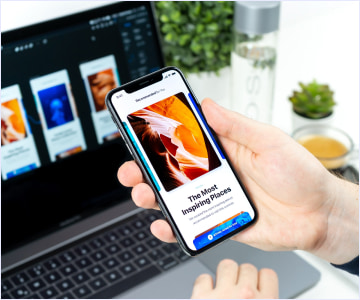
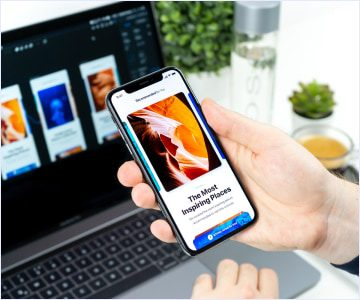
images @2x added

diff --git a/portfolio.html b/portfolio.html
@@ -96,7 +96,11 @@
               <a class="portfolio-link" href="#">
                 <div class="portfolio-box">
                   <img
-                    src="./images/portfolio/banking_app.jpeg"
+                    srcset="
+                      ./images/portfolio/img-1@1x.jpg 1x,
+                      ./images/portfolio/img-1@2x.jpg 2x
+                    "
+                    src="./images/portfolio/img-1@1x.jpg"
                     alt="banking app"
                     width="360"
                     height="300"
@@ -119,7 +123,11 @@
               <a class="portfolio-link" href="#">
                 <div class="portfolio-box">
                   <img
-                    src="./images/portfolio/cashless_payment.jpeg"
+                    srcset="
+                      ./images/portfolio/img-2@1x.jpg 1x,
+                      ./images/portfolio/img-2@2x.jpg 2x
+                    "
+                    src="./images/portfolio/img-2@1x.jpg"
                     alt="cashless payment"
                     width="360"
                     height="300"
@@ -140,7 +148,11 @@
               <a class="portfolio-link" href="#">
                 <div class="portfolio-box">
                   <img
-                    src="./images/portfolio/meditation_app.jpeg"
+                    srcset="
+                      ./images/portfolio/img-3@1x.jpg 1x,
+                      ./images/portfolio/img-3@2x.jpg 2x
+                    "
+                    src="./images/portfolio/img-3@1x.jpg"
                     alt="meditation app"
                     width="360"
                     height="300"
@@ -161,7 +173,11 @@
               <a class="portfolio-link" href="#">
                 <div class="portfolio-box">
                   <img
-                    src="./images/portfolio/taxi_service.jpeg"
+                    srcset="
+                      ./images/portfolio/img-4@1x.jpg 1x,
+                      ./images/portfolio/img-4@2x.jpg 2x
+                    "
+                    src="./images/portfolio/img-4@1x.jpg"
                     alt="Taxi Service"
                     width="360"
                     height="300"
@@ -182,7 +198,11 @@
               <a class="portfolio-link" href="#">
                 <div class="portfolio-box">
                   <img
-                    src="./images/portfolio/screen_illustrations.jpeg"
+                    srcset="
+                      ./images/portfolio/img-5@1x.jpg 1x,
+                      ./images/portfolio/img-5@2x.jpg 2x
+                    "
+                    src="./images/portfolio/img-5@1x.jpg"
                     alt="Screen Illustrations"
                     width="360"
                     height="300"
@@ -203,7 +223,11 @@
               <a class="portfolio-link" href="#">
                 <div class="portfolio-box">
                   <img
-                    src="./images/portfolio/online_courses.jpeg"
+                    srcset="
+                      ./images/portfolio/img-6@1x.jpg 1x,
+                      ./images/portfolio/img-6@2x.jpg 2x
+                    "
+                    src="./images/portfolio/img-6@1x.jpg"
                     alt="Online Courses"
                     width="360"
                     height="300"
@@ -224,7 +248,11 @@
               <a class="portfolio-link" href="#">
                 <div class="portfolio-box">
                   <img
-                    src="./images/portfolio/instagram_stories_concept.jpeg"
+                    srcset="
+                      ./images/portfolio/img-7@1x.jpg 1x,
+                      ./images/portfolio/img-7@2x.jpg 2x
+                    "
+                    src="./images/portfolio/img-7@1x.jpg"
                     alt="Instagram Stories Concept"
                     width="360"
                     height="300"
@@ -245,7 +273,11 @@
               <a class="portfolio-link" href="#">
                 <div class="portfolio-box">
                   <img
-                    src="./images/portfolio/organic_food.jpeg"
+                    srcset="
+                      ./images/portfolio/img-8@1x.jpg 1x,
+                      ./images/portfolio/img-8@2x.jpg 2x
+                    "
+                    src="./images/portfolio/img-8@1x.jpg"
                     alt="Organic Food"
                     width="360"
                     height="300"
@@ -266,7 +298,11 @@
               <a class="portfolio-link" href="#">
                 <div class="portfolio-box">
                   <img
-                    src="./images/portfolio/fresh_coffee.jpeg"
+                    srcset="
+                      ./images/portfolio/img-9@1x.jpg 1x,
+                      ./images/portfolio/img-9@2x.jpg 2x
+                    "
+                    src="./images/portfolio/img-9@1x.jpg"
                     alt="Fresh Coffee"
                     width="360"
                     height="300"

diff --git a/index.html b/index.html
@@ -146,6 +146,10 @@
           <ul class="examples-list card-set">
             <li class="card-set-item">
               <img
+                srcset="
+                  ./images/workExamples/img-1.jpg    1x,
+                  ./images/workExamples/img-1@2x.jpg 2x
+                "
                 src="./images/workExamples/img-1.jpg"
                 alt="Desktop applications"
                 width="360"
@@ -154,6 +158,10 @@
             </li>
             <li class="card-set-item">
               <img
+                srcset="
+                  ./images/workExamples/img-2.jpg    1x,
+                  ./images/workExamples/img-2@2x.jpg 2x
+                "
                 src="./images/workExamples/img-2.jpg"
                 alt="Mobile applications"
                 width="360"
@@ -162,6 +170,10 @@
             </li>
             <li class="card-set-item">
               <img
+                srcset="
+                  ./images/workExamples/img-3.jpg    1x,
+                  ./images/workExamples/img-3@2x.jpg 2x
+                "
                 src="./images/workExamples/img-3.jpg"
                 alt="Mobile applications"
                 width="360"
@@ -179,6 +191,10 @@
           <ul class="team-list card-set">
             <li class="team-item card-set-item">
               <img
+                srcset="
+                  ./images/team/img-1.jpg    1x,
+                  ./images/team/img-1@2x.jpg 2x
+                "
                 src="./images/team/img-1.jpg"
                 alt="Mark Guerrero Product Designer"
                 width="264"
@@ -245,6 +261,10 @@
             </li>
             <li class="team-item card-set-item">
               <img
+                srcset="
+                  ./images/team/img-2.jpg    1x,
+                  ./images/team/img-2@2x.jpg 2x
+                "
                 src="./images/team/img-2.jpg"
                 alt="Tom Ford Frontend Developer"
                 width="264"
@@ -311,6 +331,10 @@
             </li>
             <li class="team-item card-set-item">
               <img
+                srcset="
+                  ./images/team/img-3.jpg    1x,
+                  ./images/team/img-3@2x.jpg 2x
+                "
                 src="./images/team/img-3.jpg"
                 alt="Camila Garcia Marketing"
                 width="264"
@@ -377,6 +401,10 @@
             </li>
             <li class="team-item card-set-item">
               <img
+                srcset="
+                  ./images/team/img-4.jpg    1x,
+                  ./images/team/img-4@2x.jpg 2x
+                "
                 src="./images/team/img-4.jpg"
                 alt="Daniel Wilson UI Designer"
                 width="264"

diff --git a/css/styles.css b/css/styles.css
@@ -161,7 +161,6 @@ a {
   column-gap: var(--indent-col, 24px);
 }
 .card-set-item {
-  max-width: 264px;
   flex-basis: calc(
     (100% - var(--indent-col) * (var(--items) - 1)) / var(--items)
   );
@@ -312,14 +311,55 @@ a {
       rgba(46, 47, 66, 0.7),
       rgba(46, 47, 66, 0.7)
     ),
-    url(../images/portfolio/hero-bg.jpg);
+    url(../images/hero/hero-bg_mob@1x.jpg);
   background-repeat: no-repeat;
   background-position: center;
   background-size: cover;
 }
+@media (min-resolution: 192dpi) {
+  .hero {
+    background-image: linear-gradient(
+        rgba(46, 47, 66, 0.7),
+        rgba(46, 47, 66, 0.7)
+      ),
+      url(../images/hero/hero-bg_mob@2x.jpg);
+  }
+}
+@media only screen and (min-width: 768px) {
+  .hero {
+    background-image: linear-gradient(
+        rgba(46, 47, 66, 0.7),
+        rgba(46, 47, 66, 0.7)
+      ),
+      url(../images/hero/hero-bg_tab@1x.jpg);
+  }
+}
+@media only screen and (min-width: 768px) and (min-resolution: 192dpi) {
+  .hero {
+    background-image: linear-gradient(
+        rgba(46, 47, 66, 0.7),
+        rgba(46, 47, 66, 0.7)
+      ),
+      url(../images/hero/hero-bg_tab@2x.jpg);
+  }
+}
 @media only screen and (min-width: 1158px) {
   .hero {
     padding: 188px 0;
+    background-image: linear-gradient(
+        rgba(46, 47, 66, 0.7),
+        rgba(46, 47, 66, 0.7)
+      ),
+      url(../images/hero/hero-bg_desk@1x.jpg);
+  }
+}
+@media only screen and (min-width: 1158px) and (min-resolution: 192dpi) {
+  .hero {
+    background-image: linear-gradient(
+        rgba(46, 47, 66, 0.7),
+        rgba(46, 47, 66, 0.7)
+      ),
+      url(../images/hero/hero-bg_desk@2x.jpg);
   }
 }
 .hero-title {
@@ -461,6 +501,7 @@ a {
   }
 }
 .team-item {
+  max-width: 264px;
   box-shadow: 0 2px 1px 0 #2e2f4214, 0 1px 1px 0 #2e2f4229,
     0 1px 6px 0 #2e2f4214;
   border-radius: 0 0 4px 4px;
@@ -537,6 +578,7 @@ a {
 }
 .portfolio-list {
   --indent-row: 48px;
+  justify-content: flex-start;
 }
 .portfolio-info {
   border: 1px solid var(--border-cl);
@@ -754,9 +796,9 @@ a {
   top: 50%;
   left: 50%;
   transform: translateX(-50%) translateY(-50%) scale(1);
-  /* width: 408px; */
   /* width: calc(100% - 36px); */
   width: 100%;
+  /* width: 90%; */
   max-width: 392px;
   min-height: 584px;
   padding: 72px 24px 24px;
@@ -769,6 +811,11 @@ a {
   transition-timing-function: cubic-bezier(0.42, 0, 0.21, 1.5);
   transition-property: transform, opacity;
   transition-delay: 600ms;
+}
+@media only screen and (min-width: 768px) {
+  .modal {
+    max-width: 408px;
+  }
 }
 .backdrop.is-hidden .modal {
   transform: translateX(-50%) translateY(-50%) scale(0.3);
